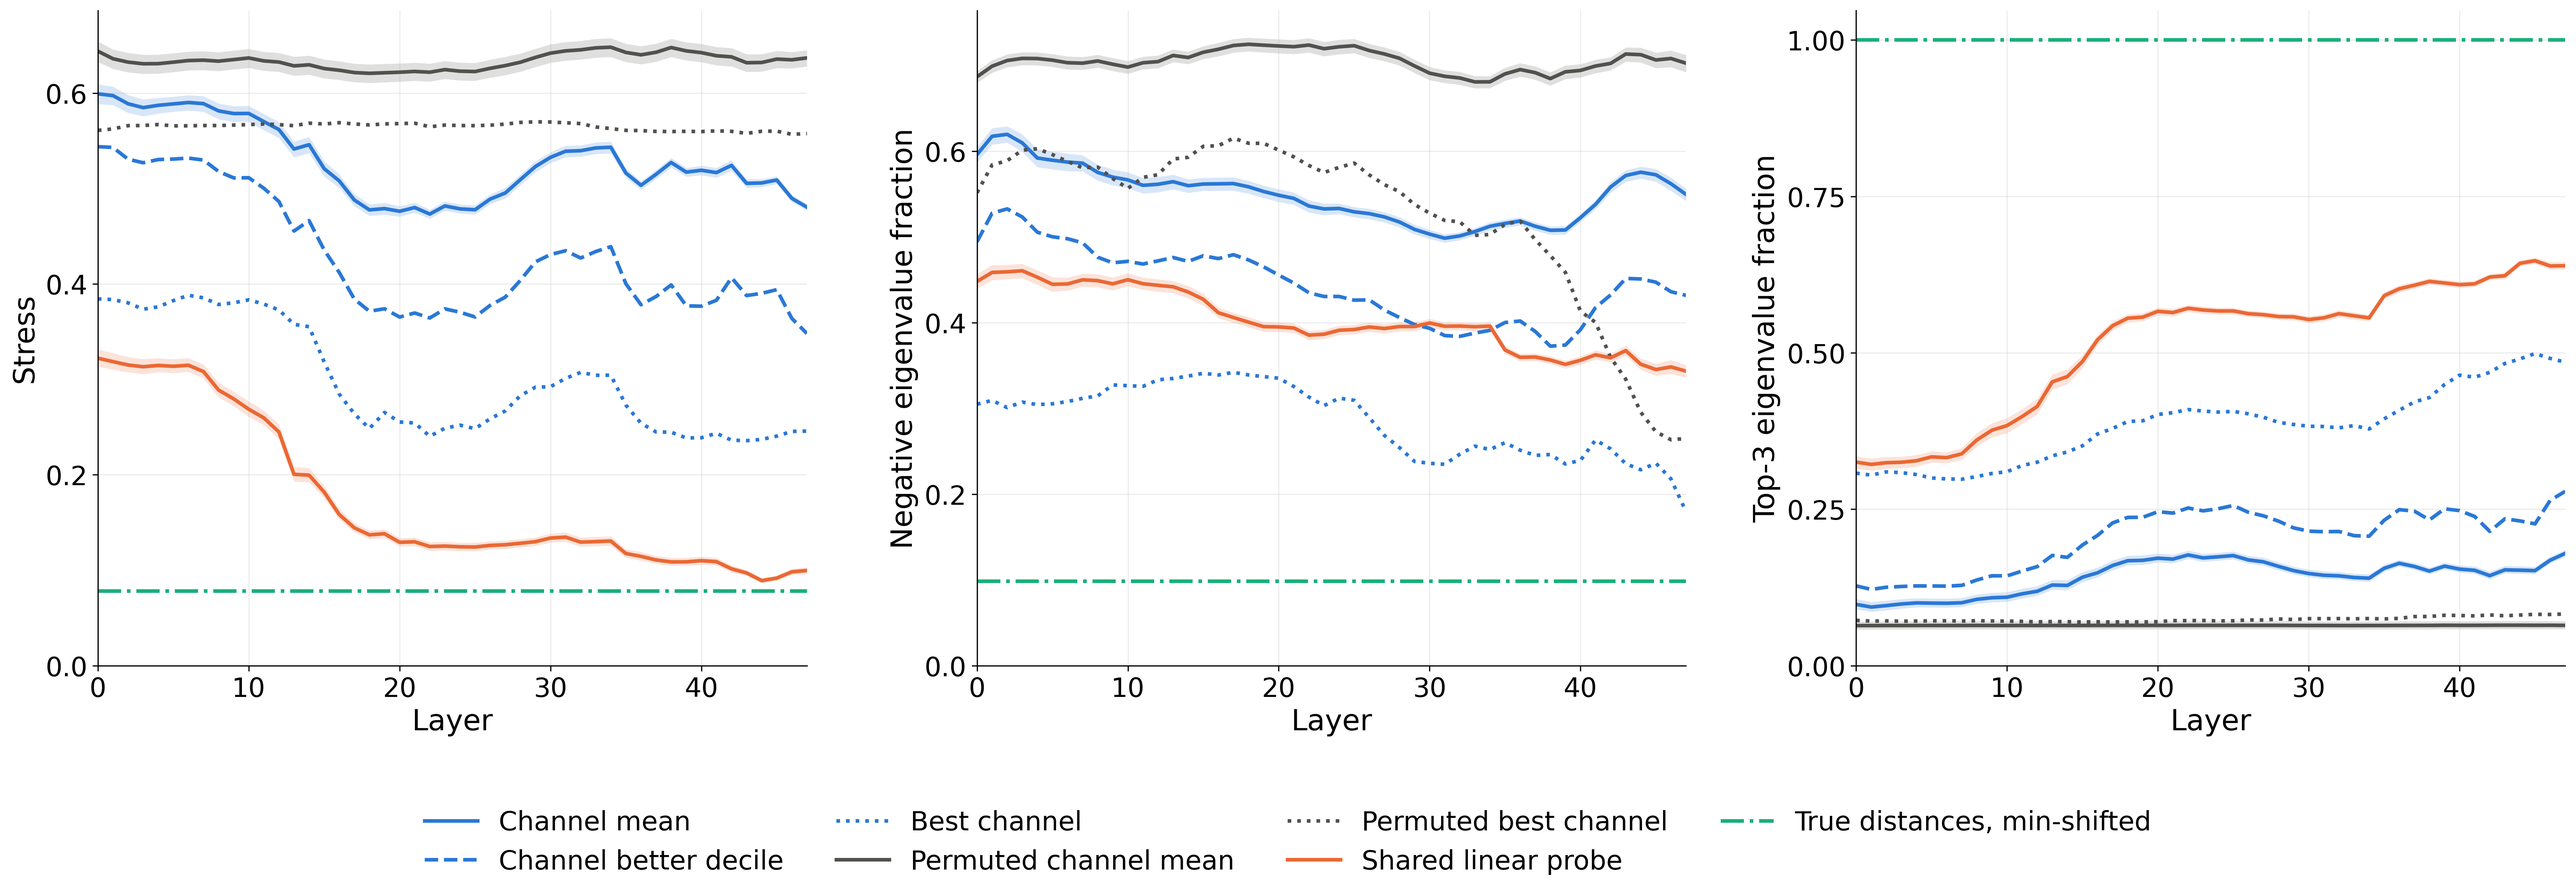
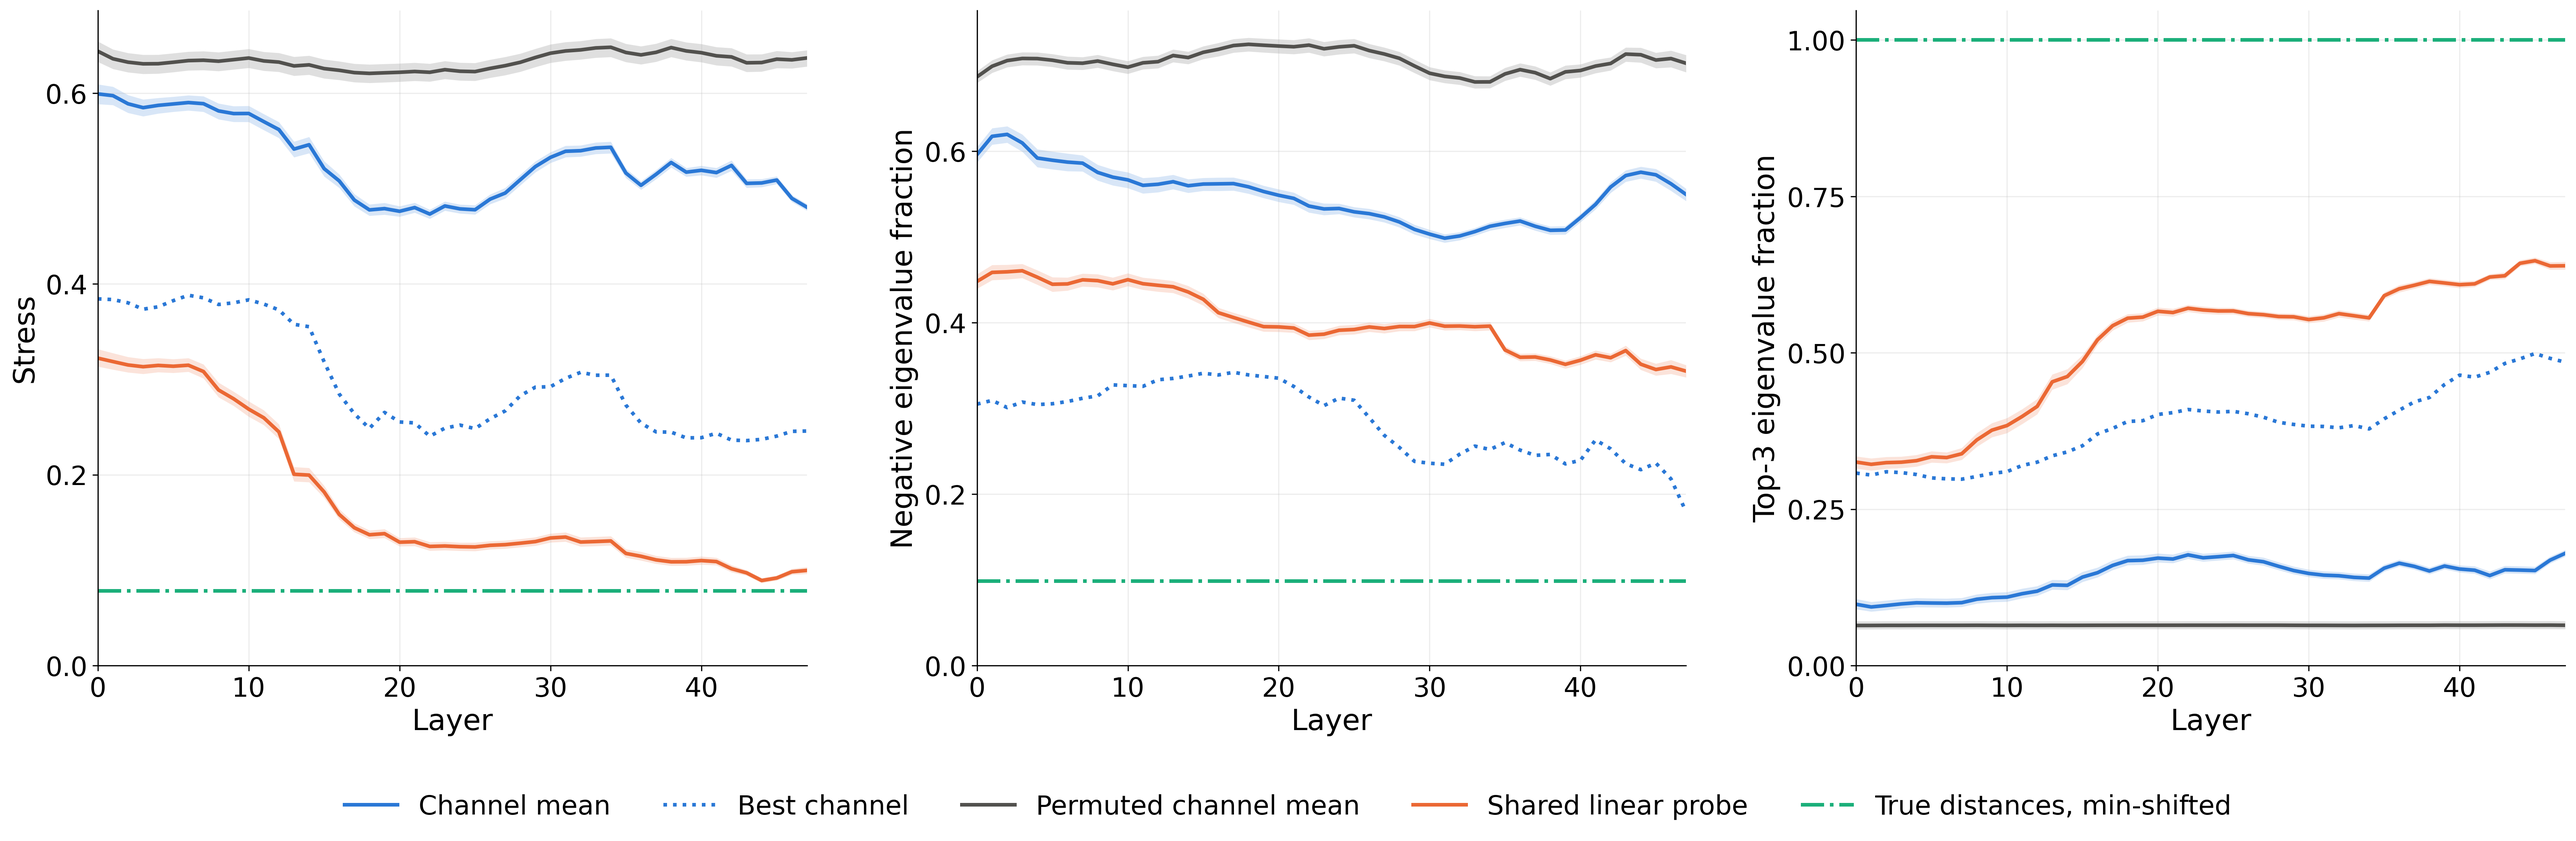
Per-channel MDS: drop the better decile and permuted best channel from the by-layer figure
Both series stay in summary_by_layer.csv and RESULTS.md.

diff --git a/scripts/multi_protein/per_channel_mds/analyze_per_channel_mds.py b/scripts/multi_protein/per_channel_mds/analyze_per_channel_mds.py
@@ -54,13 +54,12 @@ METRICS = {
     "frac_top3_eigenvalues": ("Top-3 eigenvalue fraction", "p90", "max"),
 }
 BLUE, ORANGE, AQUA, GREY = "#2a78d6", "#eb6834", "#1baf7a", "#52514e"   # grey is the neutral null
-# series -> (label, colour, line style, drawn with a band)
+# Drawn series -> (label, colour, line style, drawn with a band). The better decile and the
+# permuted best channel are in summary_by_layer.csv and RESULTS.md but not in the figure.
 SERIES = {
     "channel_mean": ("Channel mean", BLUE, "-", True),
-    "channel_better_decile": ("Channel better decile", BLUE, "--", False),
     "channel_best": ("Best channel", BLUE, ":", False),
     "permuted_mean": ("Permuted channel mean", GREY, "-", True),
-    "permuted_best": ("Permuted best channel", GREY, ":", False),
     "shared_ols_probe": ("Shared linear probe", ORANGE, "-", True),
     "true_distance_minshift": ("True distances, min-shifted", AQUA, "-.", False),
 }
@@ -167,7 +166,7 @@ def figure_metric_by_layer(summary: pd.DataFrame, layers: list[int]) -> None:
         layer_axis(ax, layers)
     handles = [Line2D([0], [0], color=colour, linestyle=style, linewidth=2.4, label=label)
                for label, colour, style, _ in SERIES.values()]
-    fig.legend(handles=handles, loc="lower center", ncol=4, frameon=False, bbox_to_anchor=(0.5, -0.17))
+    fig.legend(handles=handles, loc="lower center", ncol=len(handles), frameon=False, bbox_to_anchor=(0.5, -0.1))
     fig.tight_layout(w_pad=2.5)
     save(fig, "metric_by_layer")
 
@@ -360,8 +359,8 @@ def write_results(data: dict, summary: pd.DataFrame, channels: pd.DataFrame) -> 
                   f"{relation.loc[layers[0]]:.2f} at layer {layers[0]} and {relation.loc[last]:.2f} at layer {last}. "
                   f"The stress floor from the shift rule is {floor:.3f}.", "",
               "## Figures", "",
-              "- `figures/metric_by_layer`: the three metrics by layer, channel mean, better decile and best",
-              "  channel, with the permuted null, the shared linear probe and the min-shifted true distances.",
+              "- `figures/metric_by_layer`: the three metrics by layer, channel mean and best channel, with",
+              "  the permuted channel mean, the shared linear probe and the min-shifted true distances.",
               "- `figures/stress_heatmap_layer_by_channel`: cohort-mean stress per channel and layer.",
               "- `figures/stress_vs_distance_correlation`: one point per channel at selected layers.",
               "- `figures/stress_distribution_real_vs_permuted`: stress over protein-channel pairs.", ""]

diff --git a/delta_files/diagnostic_experiments/per_channel_mds_cameo_v1/RESULTS.md b/delta_files/diagnostic_experiments/per_channel_mds_cameo_v1/RESULTS.md
@@ -120,8 +120,8 @@ Across protein-channel pairs, the correlation between stress and `|ρ| distance`
 
 ## Figures
 
-- `figures/metric_by_layer`: the three metrics by layer, channel mean, better decile and best
-  channel, with the permuted null, the shared linear probe and the min-shifted true distances.
+- `figures/metric_by_layer`: the three metrics by layer, channel mean and best channel, with
+  the permuted channel mean, the shared linear probe and the min-shifted true distances.
 - `figures/stress_heatmap_layer_by_channel`: cohort-mean stress per channel and layer.
 - `figures/stress_vs_distance_correlation`: one point per channel at selected layers.
 - `figures/stress_distribution_real_vs_permuted`: stress over protein-channel pairs.
